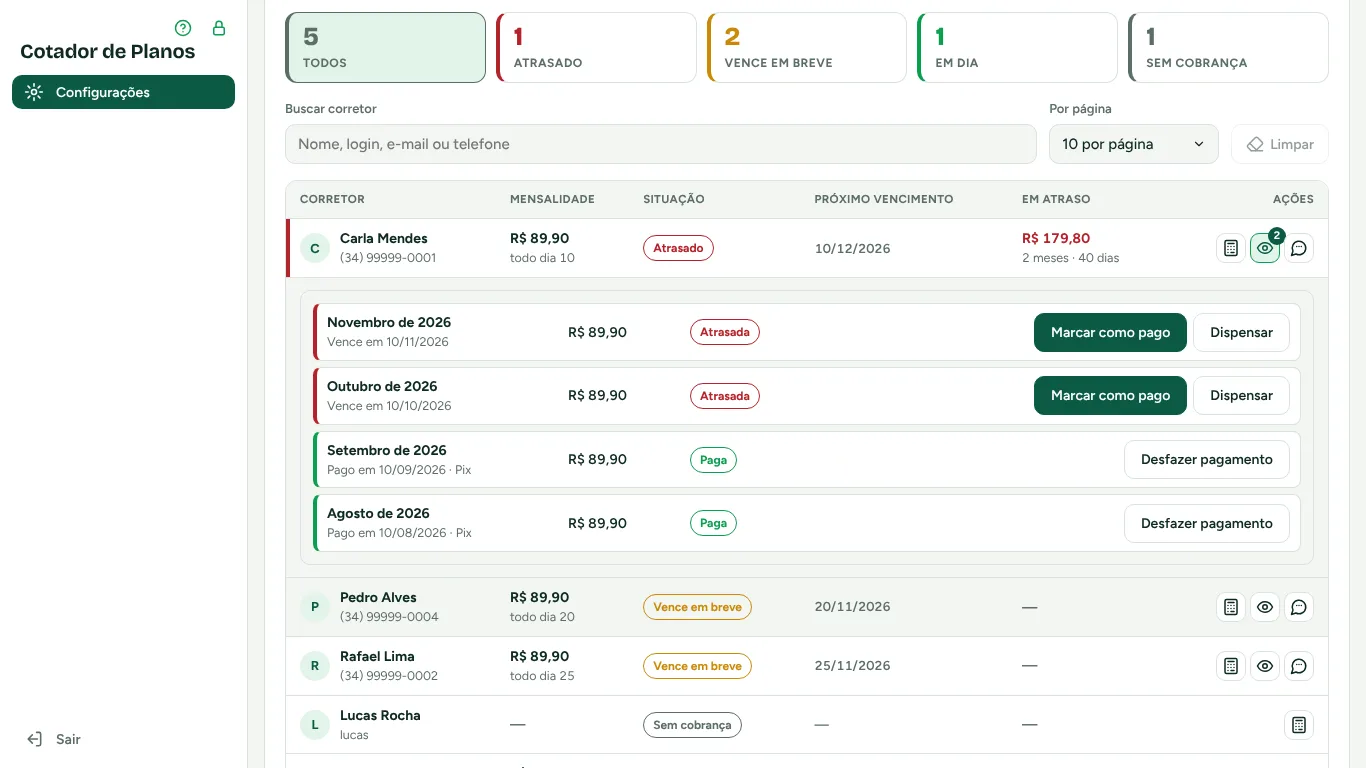
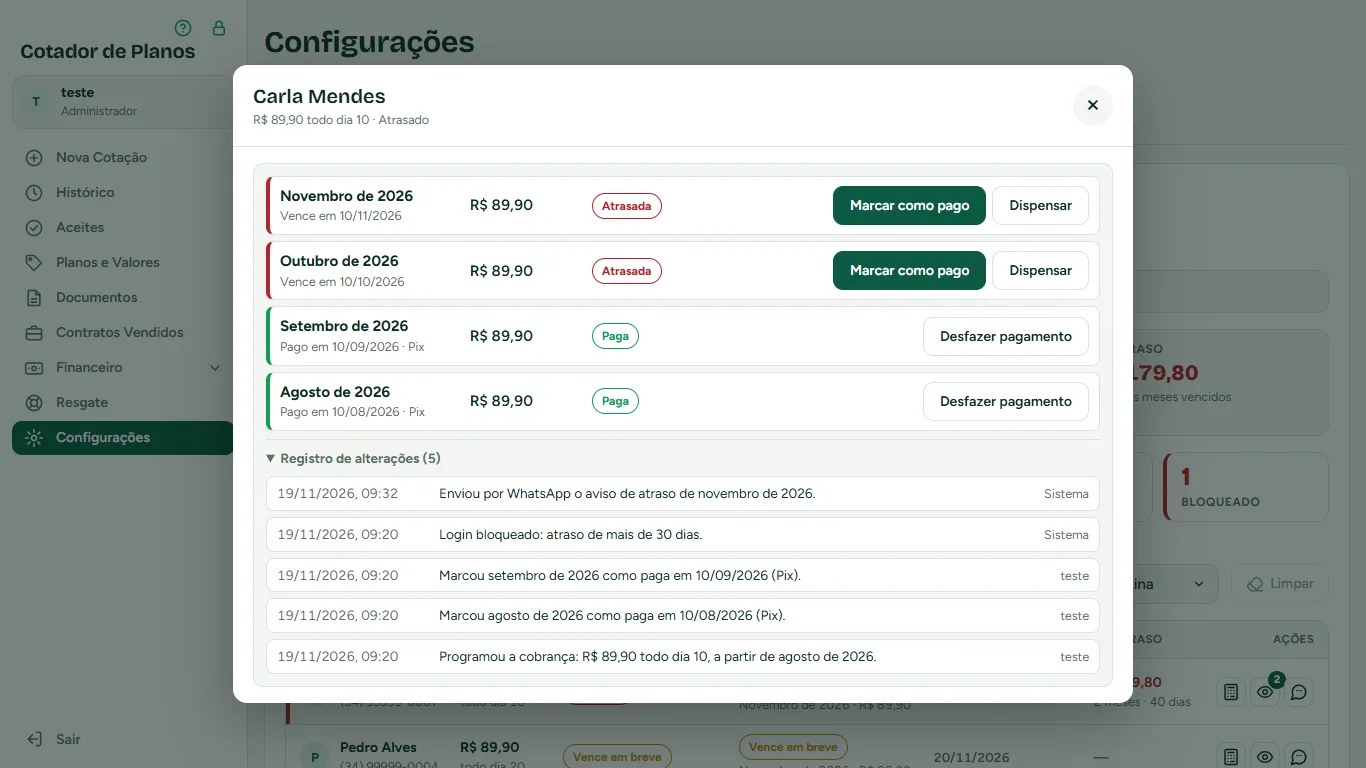
Mensalidades: meses e registro de alterações abrem num modal
- O ícone do olho abre uma janela no centro da tela, com os meses (pagar,
  desfazer, dispensar) e o registro de alterações, em vez do painel embaixo da linha.
- A janela se atualiza depois de cada ação e fecha pelo X, Esc ou clicando fora.
- Imagem e texto do manual atualizados, com dados fictícios.

diff --git a/public/js/mensalidades.js b/public/js/mensalidades.js
@@ -94,7 +94,7 @@ function linhaDoCorretor(c) {
   const temPainel = c.mensalidades.length || c.alteracoes.length;
   const acoes = [
     botaoIcone("calculadora", a ? "Editar a cobrança" : "Programar a cobrança mensal", { atributos: `data-cobranca` }),
-    temPainel ? botaoIcone("ver", "Ver os meses e as alterações", { atributos: `data-meses aria-expanded="${aberto === c.id}"`, numero: c.atrasadas }) : "",
+    temPainel ? botaoIcone("ver", "Ver os meses e as alterações", { atributos: `data-meses aria-haspopup="dialog"`, numero: c.atrasadas }) : "",
     fone && ["atrasado", "vence"].includes(c.situacao) ? botaoIcone("whatsapp", "Cobrar pelo WhatsApp", { atributos: `data-whatsapp` }) : "",
   ].join("");
   const bloqueio = a?.bloqueado ? `<span class="usr-selo desativado" title="Login desativado pelo atraso. Volta sozinho quando o atraso for pago.">Bloqueado</span>` : !c.ativo ? `<span class="usr-selo desativado">Desativado</span>` : "";
@@ -106,7 +106,7 @@ function linhaDoCorretor(c) {
       <td class="grade-data">${c.proximoVencimento ? esc(fmtDia(c.proximoVencimento)) : `<span class="vazio">—</span>`}</td>
       <td><div class="men-duas">${atraso}</div></td>
       <td><div class="grade-acoes">${acoes}</div></td>
-    </tr>${aberto === c.id ? `<tr class="grade-painel-linha" data-id="${esc(c.id)}"><td colspan="7">${painelDosMeses(c)}</td></tr>` : ""}`;
+    </tr>`;
 }
 
 function painelDosMeses(c) {
@@ -138,13 +138,14 @@ function painelDosMeses(c) {
   }).join("");
   const obs = c.assinatura?.observacao ? `<p class="note" style="margin:0">Observação: ${esc(c.assinatura.observacao)}</p>` : "";
   const alteracoes = c.alteracoes.length
-    ? `<details class="men-registro"${c.mensalidades.length ? "" : " open"}><summary>Registro de alterações (${c.alteracoes.length})</summary><ol>${c.alteracoes.map((a) =>
+    ? `<details class="men-registro" open><summary>Registro de alterações (${c.alteracoes.length})</summary><ol>${c.alteracoes.map((a) =>
         `<li><time datetime="${esc(a.em)}">${esc(fmtQuando(a.em))}</time><span>${esc(a.descricao)}</span><small>${esc(a.autor)}</small></li>`).join("")}</ol></details>`
     : "";
-  return `<div class="men-meses" data-painel-meses>${obs}${linhas ? `<ul>${linhas}</ul>` : ""}${alteracoes}</div>`;
+  return `<div class="men-meses">${obs}${linhas ? `<ul>${linhas}</ul>` : ""}${alteracoes}</div>`;
 }
 
 function render() {
+  if ($("#men-modal").open) desenharMeses();
   if (!dados && !erro) { $("#men-lista").innerHTML = `<div class="status">Carregando mensalidades…</div>`; return; }
   if (erro) { $("#men-lista").innerHTML = `<div class="status">${esc(erro)}</div>`; $("#men-paginacao").innerHTML = ""; return; }
   selo();
@@ -182,13 +183,35 @@ function render() {
 function ligarLinhas(box) {
   const doItem = (el) => dados.corretores.find((c) => c.id === el.closest("[data-id]").dataset.id);
   box.querySelectorAll("[data-cobranca]").forEach((b) => (b.onclick = () => abrirGaveta(doItem(b))));
-  box.querySelectorAll("[data-meses]").forEach((b) => (b.onclick = () => { const c = doItem(b); aberto = aberto === c.id ? null : c.id; pagando = null; render(); }));
+  box.querySelectorAll("[data-meses]").forEach((b) => (b.onclick = () => abrirMeses(doItem(b))));
   box.querySelectorAll("[data-whatsapp]").forEach((b) => (b.onclick = () => {
     const c = doItem(b);
     window.open(linkConversaDireta(normFone(c.fone), mensagemDeCobranca(nomeDe(c), c.mensalidades, dados.hoje), navigator.userAgent), "_blank", "noopener");
   }));
-  const painel = box.querySelector("[data-painel-meses]");
-  if (!painel) return;
+}
+
+/* ---------- modal dos meses e do registro de alterações ---------- */
+function abrirMeses(c) {
+  aberto = c.id;
+  pagando = null;
+  desenharMeses();
+  $("#men-modal").showModal();
+}
+
+// Redesenha o modal aberto com a ficha atual (depois de um pagamento, por exemplo).
+function desenharMeses() {
+  const c = dados?.corretores.find((x) => x.id === aberto);
+  const modal = $("#men-modal");
+  if (!c) { if (modal.open) modal.close(); return; }
+  $("#men-modal-titulo").textContent = nomeDe(c);
+  const a = c.assinatura;
+  $("#men-modal-quem").textContent = [a ? `R$ ${brl(a.valor)} todo dia ${a.dia}` : "Sem cobrança", SITUACOES_CORRETOR[c.situacao]].join(" · ");
+  const corpo = $("#men-modal-corpo");
+  corpo.innerHTML = painelDosMeses(c);
+  ligarMeses(corpo);
+}
+
+function ligarMeses(painel) {
   const enviar = async (id, json, aviso) => {
     try {
       trocarFicha(await api(`/api/mensalidades/${encodeURIComponent(id)}`, { metodo: "PATCH", json }));
@@ -329,4 +352,8 @@ export function iniciarMensalidades() {
   $("#men-form").addEventListener("input", atualizarPrevia);
   $("#men-form").addEventListener("change", atualizarPrevia);
   $("#men-regua-form").onsubmit = salvarRegua;
+  $("#men-modal").addEventListener("close", () => { aberto = null; pagando = null; });
+  $("#men-modal [data-fechar]").onclick = () => $("#men-modal").close();
+  // Clicar fora da caixa fecha o modal.
+  $("#men-modal").addEventListener("click", (e) => { if (e.target === e.currentTarget) e.currentTarget.close(); });
 }

diff --git a/public/manual.html b/public/manual.html
@@ -336,7 +336,7 @@
         <li>os cards no topo mostram o previsto por mês, o recebido e o que falta receber no mês e o total em atraso. Clicar num deles filtra a lista pelos corretores daquela conta, e clicar de novo tira o filtro. Os cards de situação (inclusive <b>Bloqueado</b>, quando há alguém bloqueado) também filtram, e a busca acha o corretor pelo nome, login, e-mail ou telefone;</li>
         <li>a coluna <b>Última cobrança</b> mostra o mês mais recente do corretor e se ele está pago, em aberto ou atrasado;</li>
         <li>o ícone da calculadora <b>programa a cobrança</b>: valor, dia do vencimento (de 1 a 28) e o primeiro mês cobrado. Antes de salvar, a janela mostra a prévia, como "Serão cobrados R$ 99,90 todo dia 10, a partir de 10/12/2026", e os próximos vencimentos. Desmarcar <b>Cobrança ativa</b> pausa a cobrança;</li>
-        <li>os meses aparecem sozinhos todo mês. O ícone do olho abre os meses do corretor: <b>Marcar como pago</b> pede a data e a forma de pagamento, <b>Dispensar</b> deixa de cobrar aquele mês e <b>Desfazer pagamento</b> volta atrás. Abaixo dos meses fica o <b>Registro de alterações</b>: quem programou ou mudou a cobrança, marcou ou desfez um pagamento, dispensou um mês, e quando. O bloqueio e a liberação automáticos aparecem como feitos pelo Sistema;</li>
+        <li>os meses aparecem sozinhos todo mês. O ícone do olho abre uma janela com os meses do corretor: <b>Marcar como pago</b> pede a data e a forma de pagamento, <b>Dispensar</b> deixa de cobrar aquele mês e <b>Desfazer pagamento</b> volta atrás. Na mesma janela, abaixo dos meses, fica o <b>Registro de alterações</b>: quem programou ou mudou a cobrança, marcou ou desfez um pagamento, dispensou um mês, e quando. O bloqueio e a liberação automáticos aparecem como feitos pelo Sistema;</li>
         <li>o ícone do WhatsApp abre a conversa com o corretor e a mensagem de cobrança pronta, com os meses atrasados e os que vencem nos próximos 7 dias;</li>
         <li><b>Régua de cobrança</b> (clique no título para abrir): lembretes automáticos para cada mês em aberto, de segunda a sexta, das 9h às 18h.
           <ul>
@@ -353,7 +353,7 @@
     <li><b>Atualizar sistema</b>: baixa a versão mais recente e reinicia o cotador. Os dados não mudam; os links dos clientes ficam fora do ar por alguns instantes.</li>
   </ul>
   <figure>
-    <img src="img/manual/mensalidades.webp" alt="Tela Mensalidades com os cards de situação e a lista de corretores, com os meses de uma corretora abertos" width="1366" height="768" loading="lazy">
+    <img src="img/manual/mensalidades.webp" alt="Janela com os meses e o registro de alterações de uma corretora, aberta sobre a tela Mensalidades" width="1366" height="768" loading="lazy">
     <figcaption>Vermelho é atraso, amarelo vence nos próximos 7 dias e verde está em dia.</figcaption>
   </figure>
   <div class="dica"><b>Dica:</b> faça um backup por semana e guarde o arquivo fora do computador do cotador, como num pen drive ou na nuvem.</div>

diff --git a/public/css/app.css b/public/css/app.css
@@ -861,6 +861,12 @@ a.ctr-doc-mini:hover{border-color:var(--accent)}
 .grade-cards [data-chave="em_dia"]{--cor:var(--accent)}
 .grade-cards [data-chave="sem_cobranca"],.grade-cards [data-chave="pausada"]{--cor:var(--muted)}
 .grade-cards [data-chave="bloqueado"]{--cor:var(--danger)}
+.men-modal{width:min(900px,96vw);max-height:90dvh;padding:0;border:0;border-radius:14px;background:var(--surface);color:var(--ink);box-shadow:0 20px 60px rgba(0,0,0,.3);overflow:hidden}
+.men-modal[open]{display:flex;flex-direction:column}
+.men-modal::backdrop{background:var(--scrim)}
+.men-modal-topo{display:flex;justify-content:space-between;align-items:center;gap:12px;padding:16px 20px;border-bottom:1px solid var(--line)}
+.men-modal-topo h2{margin:0;font-size:20px}
+.men-modal-corpo{padding:16px 20px;overflow-y:auto}
 .men-meses{display:flex;flex-direction:column;gap:8px;padding:12px;border:1px solid var(--line);border-radius:10px;background:var(--bg)}
 .men-meses ul{list-style:none;margin:0;padding:0;display:flex;flex-direction:column;gap:6px}
 .men-mes{--cor:var(--line);display:grid;grid-template-columns:minmax(160px,1fr) 110px 130px minmax(0,2fr);align-items:center;gap:8px 12px;padding:8px 10px;border:1px solid var(--line);border-left:4px solid var(--cor);border-radius:8px;background:var(--surface)}

diff --git a/public/index.html b/public/index.html
@@ -523,6 +523,13 @@
       </div>
       <div id="men-lista"></div>
       <nav class="grade-paginacao" id="men-paginacao" aria-label="Páginas dos corretores"></nav>
+      <dialog class="men-modal" id="men-modal" aria-labelledby="men-modal-titulo">
+        <header class="men-modal-topo">
+          <div><h2 id="men-modal-titulo">Meses</h2><p class="note" id="men-modal-quem" style="margin:0"></p></div>
+          <button class="gaveta-fechar" type="button" data-fechar aria-label="Fechar">×</button>
+        </header>
+        <div class="men-modal-corpo" id="men-modal-corpo"></div>
+      </dialog>
       <dialog class="gaveta" id="men-gaveta" aria-labelledby="men-titulo">
         <form id="men-form" autocomplete="off" novalidate>
           <header class="gaveta-topo">

diff --git a/README.md b/README.md
@@ -53,7 +53,7 @@ Em **Configurações > Mensalidades**, o administrador controla a cobrança mens
 - **Bloqueio por atraso:** com **Bloquear o login com atraso de** preenchido (de 1 a 90 dias; 0 desliga), quem tiver um mês atrasado há mais dias que isso tem o login desativado, e a sessão aberta cai. Quando o atraso é pago, o mês é dispensado, a cobrança é pausada ou o bloqueio é desligado, o login volta sozinho. Quem o administrador desativou à mão em **Usuários** continua desativado, e um login bloqueado pelo atraso só é reativado pela tela Mensalidades. A conferência roda ao abrir o cotador, de hora em hora e a cada mudança na tela.
 
 - **Régua de cobrança:** lembretes automáticos de cada mês em aberto, alguns dias antes do vencimento (padrão 5), no dia e alguns dias depois (padrão 3), de segunda a sexta, das 9h às 18h. Saem pelo WhatsApp de quem salvou a régua (a mesma conexão da tela Resgate, pela Evolution API) e pelo e-mail do servidor (SMTP do .env), uma vez só por mês, etapa e canal; o aviso de atraso só sai nos 7 dias seguintes ao prazo, para ligar a régua não disparar avisos de dívidas antigas. Um texto de **Como pagar** (ex.: chave Pix) vai no fim de cada lembrete. O bloqueio por atraso fica no mesmo bloco. Começa sem canal marcado: nada sai até o administrador escolher.
-- **Registro de alterações:** cada corretor tem a lista de quem programou ou mudou a cobrança, marcou ou desfez um pagamento, dispensou um mês, e quando. O bloqueio e a liberação automáticos aparecem como feitos pelo Sistema.
+- **Registro de alterações:** cada corretor tem a lista de quem programou ou mudou a cobrança, marcou ou desfez um pagamento, dispensou um mês, e quando. O bloqueio e a liberação automáticos aparecem como feitos pelo Sistema. Os meses e o registro abrem numa janela, pelo ícone do olho.
 
 As mensalidades e o registro ficam no banco e entram no backup.
 
